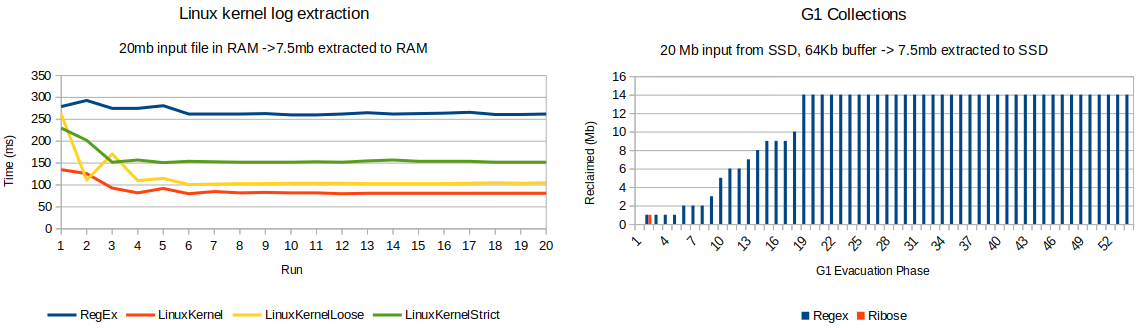
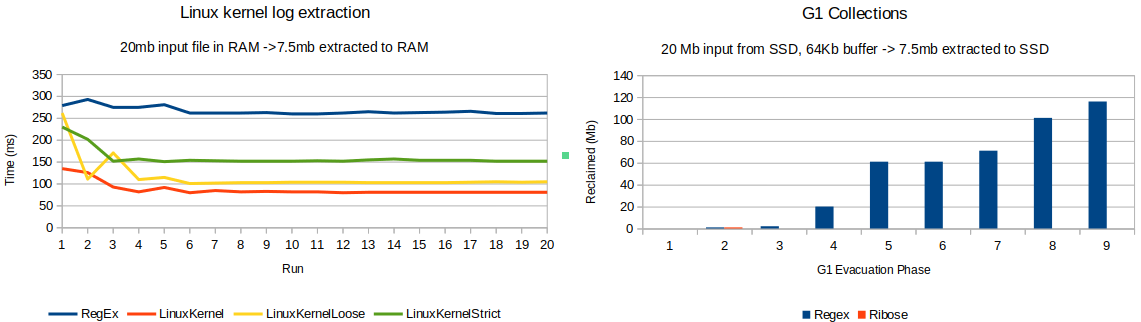
Fix low throughput for regex test runs
- load the entire input file into a CharBuffer as for ribose tests
- also updated benchmarking image in README.md

diff --git a/test/com/characterforming/jrte/test/FileRunner.java b/test/com/characterforming/jrte/test/FileRunner.java
@@ -21,11 +21,9 @@
 
 package com.characterforming.jrte.test;
 
-import java.io.BufferedReader;
 import java.io.File;
 import java.io.FileInputStream;
 import java.io.IOException;
-import java.io.InputStreamReader;
 import java.nio.ByteBuffer;
 import java.nio.CharBuffer;
 import java.nio.charset.CharsetDecoder;
@@ -83,13 +81,16 @@ public class FileRunner {
 		final File f = new File(inputPath);
 		try (final FileInputStream isr = new FileInputStream(f)) {
 			long ejrte = 0, tjrte = 0, t0 = 0, t1 = 0;
-			int clen = (jrteOutEnabled || regexOutEnabled) ? 0 : (int)f.length();
+			int clen = (int)f.length();
 			byte[] cbuf = null;
 			CharBuffer charInput = null;
 			if (clen > 0) {
 				cbuf = new byte[clen];
 				clen = isr.read(cbuf, 0, clen);
 				charInput = decoder.decode(ByteBuffer.wrap(cbuf, 0, cbuf.length));
+			} else {
+				System.out.println(String.format("Input file is empty: %s", inputPath));
+				System.exit(1);
 			}
 			
 			int loops = 1;
@@ -173,25 +174,19 @@ public class FileRunner {
 					System.out.println(String.format(" : %7.3f mb/s %7.3f ribose:regex", mbps, tr));
 				} else {
 					int count = 0;
-					try (BufferedReader reader = new BufferedReader(new InputStreamReader(isr), 64<<10)) {
-						String line = reader.readLine();
-						while (line != null) {
-							Matcher matcher = pattern.matcher(line);
-							while (matcher.find()) {
-								int k = matcher.groupCount();
-								if (0 < k) {
-									for (int j = 1; j < k; j++) {
-										String match = matcher.group(j) != null ? matcher.group(j) : "";
-										System.out.printf("%s|", match);
-									}
-									String match = matcher.group(k) != null ? matcher.group(k) : "";
-									System.out.printf("%s", match);
-									System.out.println();
-								}
-								count += k;
+					Matcher matcher = pattern.matcher(charInput);
+					while (matcher.find()) {
+						int k = matcher.groupCount();
+						if (0 < k) {
+							for (int j = 1; j < k; j++) {
+								String match = matcher.group(j) != null ? matcher.group(j) : "";
+								System.out.printf("%s|", match);
 							}
-							line = reader.readLine();
+							String match = matcher.group(k) != null ? matcher.group(k) : "";
+							System.out.printf("%s", match);
+							System.out.println();
 						}
+						count += k;
 					}
 					assert count > 0;
 				}
